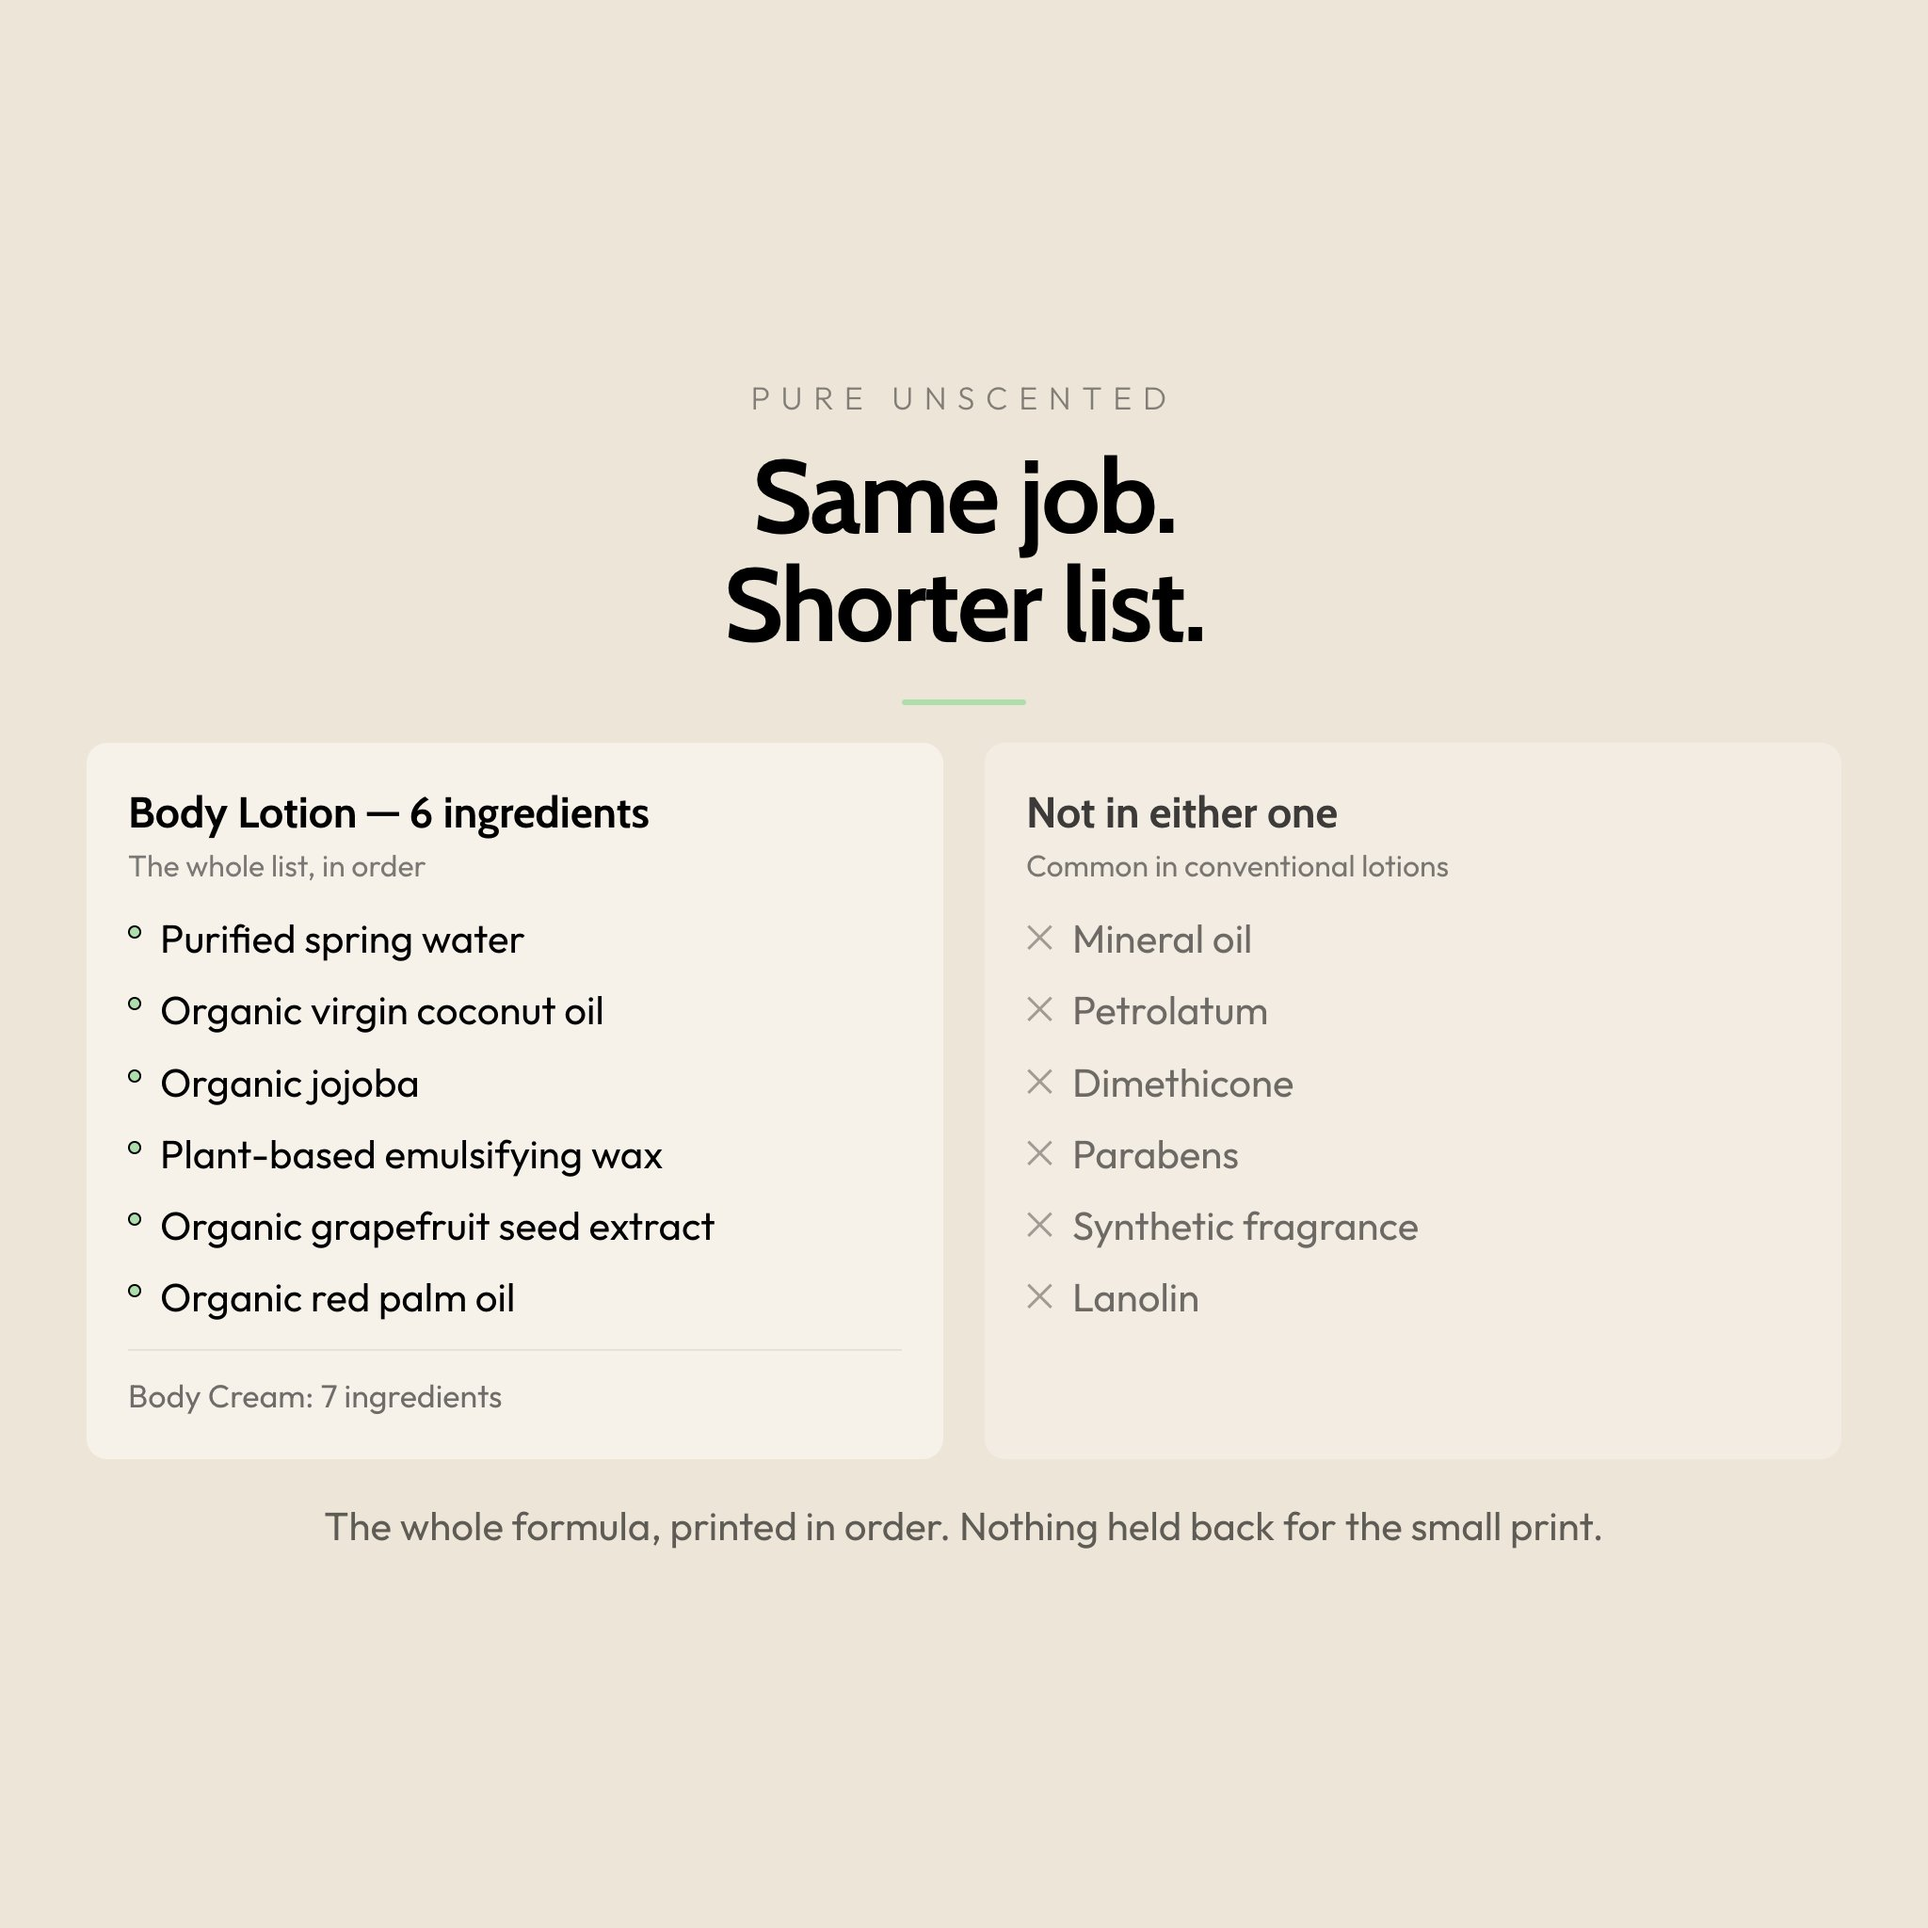
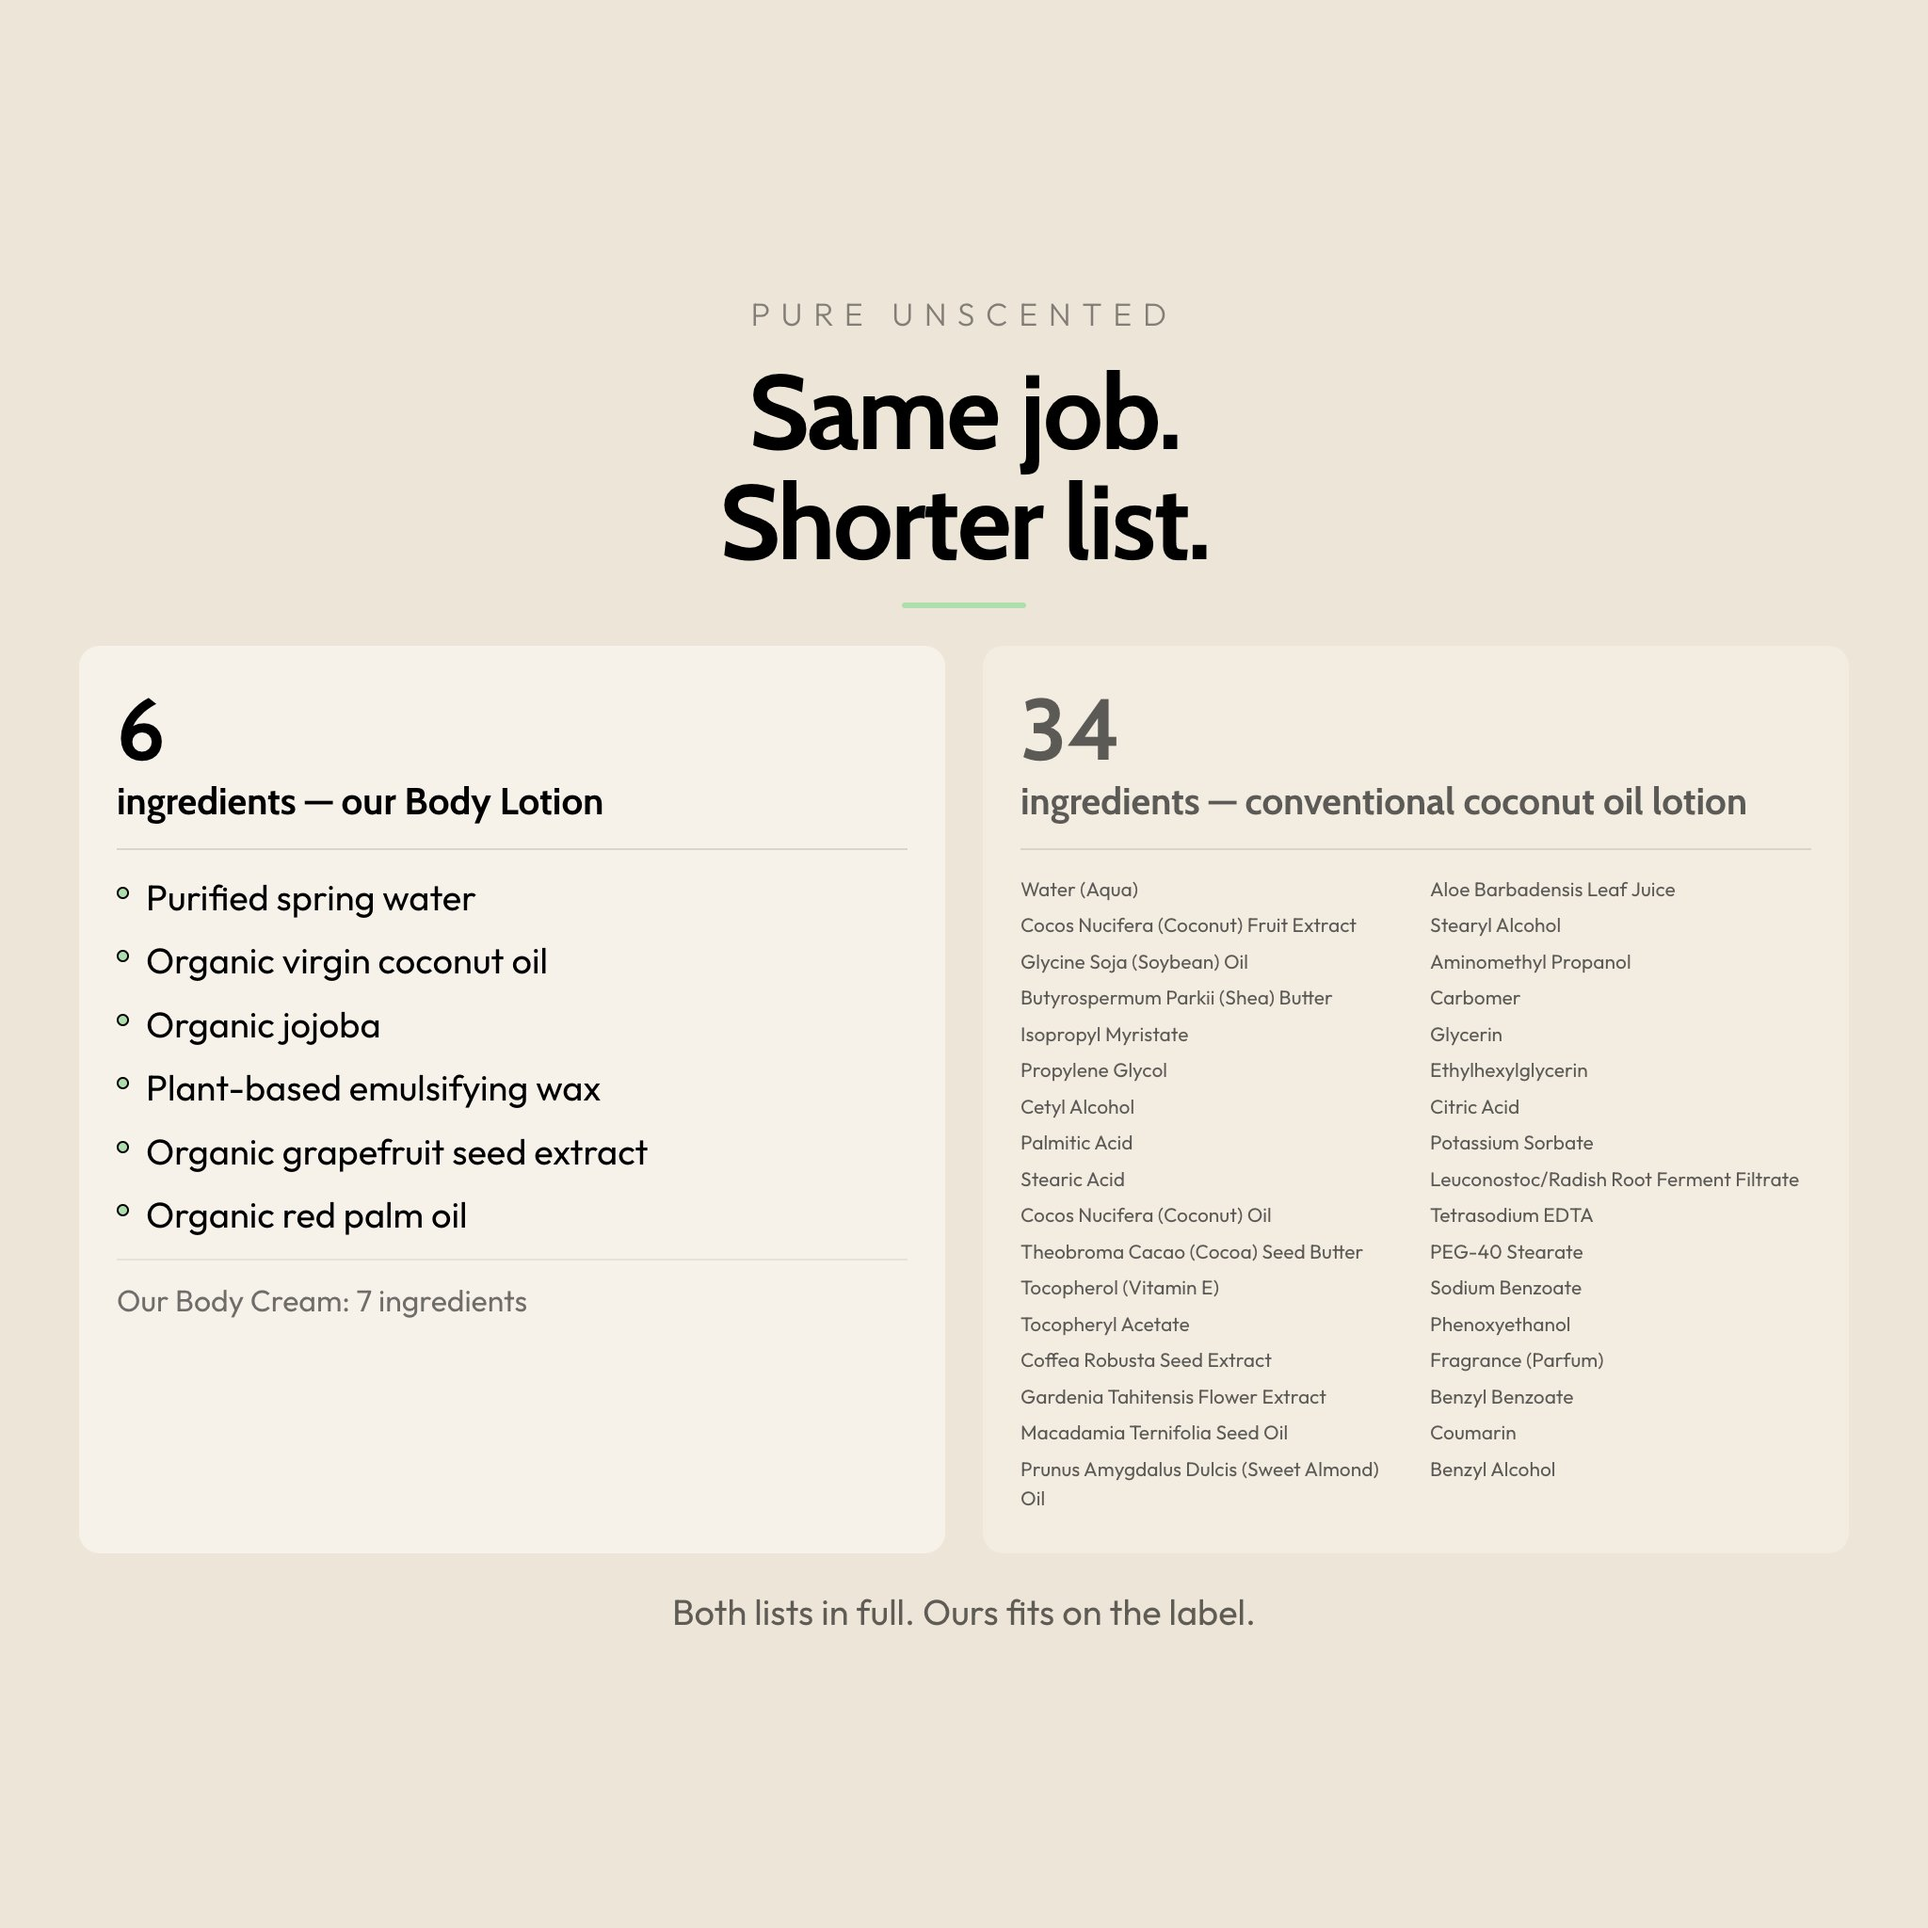
fix(bundles): frame 6 — list against list, 7 against 34
Sean caught that the first build argued against its own headline. It set our full
list beside a column of six things we exclude, so the shorter list on a frame
headlined "Shorter list" was ours — six items against seven. The image contradicted
the copy and I shipped it for review without noticing.

He also supplied a real published panel from a nationally sold coconut oil lotion,
with the instruction that we do not name them: we are contrasting against the
market, not attacking a competitor.

So it is now our real list against their real list, 7 against 34, both printed in
full and neither named. Their column needs smaller type in two sub-columns simply
to fit, which makes the point typographically rather than asserting it. The claim
is not that theirs is bad — it is that ours is short enough to print, and here it
is.

Our list is imported from config/ingredients.json and never retyped. Theirs lives
in data/brand/reference/comparison-lotion.json, which records the real product for
traceability while only the ingredients array is ever rendered — the brand name
cannot reach the frame. The label stays non-superlative on purpose: "leading" or
"best-selling" is a ranking claim we cannot support, "a conventional coconut oil
lotion" needs no support, and verify() rejects the former.

The headline is now self-verifying: if our list is ever not the shorter one, the
frame stops building rather than shipping an argument that reads backwards. That is
[…]

diff --git a/docs/bundle-media-plan.md b/docs/bundle-media-plan.md
@@ -327,31 +327,37 @@ Provenance checked rather than assumed: 4.84/135 is reproducible from the Judge.
 **Frame 6 — built 2026-08-01, not yet uploaded.** `ingredients-frame.mjs` plus a thin
 module per scent.
 
-**Unblocked by a direction, not by research.** The plan required "the comparison from
-an actual published INCI panel", which is why this frame sat blocked. Sean's direction
-2026-08-01: **we are not posting us against a specific product, we are posting us
-against the lotion market in general.** A category comparison needs no competitor
-panel — and it is the safer frame, because it asserts nothing about what any
-particular product contains.
+**Unblocked by a direction, then corrected twice.** The plan required "the comparison
+from an actual published INCI panel", which is what had it stuck. Sean, 2026-08-01:
+*we are not posting us against a specific product, we are posting us against the lotion
+market in general* — and separately supplied a real published panel to contrast against,
+with the instruction that **we do not name them**.
 
-What that leaves is honest on both sides:
+The first build got it backwards and is worth recording. It set our full list against a
+column of six things we exclude, so the "shorter list" on the frame was **ours** — six
+items against seven. The headline argued against the image. Sean caught it.
 
-- **Our column is the complete real list**, imported from `config/ingredients.json`
-  rather than retyped, so the count cannot drift from the source of truth. Six in the
-  Pure Unscented lotion, seven in Coconut Breeze — hence one frame per scent.
-- **The other column is a claim about our own formula.** Every item is an absence the
-  live lander already states. Nothing is asserted about anyone else's product, no brand
-  is named and no packaging is depicted.
+What ships instead: our real list against their real list, **7 against 34**, both
+printed in full, neither named as a brand. Their column needs smaller type in two
+sub-columns to fit, which makes the point typographically instead of asserting it. The
+claim is not "theirs is bad" — it is "ours is short enough to print, and here it is".
 
-**Both traps are walked past in the open rather than avoided.** `Organic red palm oil`
-is printed in the list, so the frame cannot be read as palm-free; the Body Cream count
-is shown rather than quietly dropped in favour of the shorter lotion, so the beeswax in
-it is not hidden. A "clean" version that omitted either would be the dishonest one.
+- Our list is imported from `config/ingredients.json`, never retyped.
+- Their list lives in `data/brand/reference/comparison-lotion.json`, which records the
+  real product for traceability. **Only the `ingredients` array is rendered**; the brand
+  name never reaches the frame.
+- The label is deliberately non-superlative. "Leading" or "best-selling" would be a
+  ranking claim we cannot support; "a conventional coconut oil lotion" needs no support.
 
-`verify()` blocks a duplicate absence, and blocks claiming anything absent that appears
-in our own list — exercised: adding "Coconut oil" to the absence column fails the build.
+**Both traps walked past in the open.** `organic red palm oil` is printed in our list, so
+the frame cannot be read as palm-free; the Body Cream count is shown rather than dropped
+in favour of the shorter lotion, so its beeswax is not hidden.
 
-**Frame 6** original honesty note: both ingredient lists must be real — ours from `config/ingredients.json`, the comparison from an actual published INCI panel — and the comparison bottle must be unbranded and unnamed. Verify both counts before this ships; an invented number here would be the single most damaging frame in either stack.
+`verify()` makes the headline self-verifying — **if our list is ever not the shorter one
+the frame stops building**, which is exactly the failure the first version shipped past.
+It also blocks a ranking claim in the label. Both exercised.
+
+**Frame 6** original honesty note:**Frame 6** original honesty note: both ingredient lists must be real — ours from `config/ingredients.json`, the comparison from an actual published INCI panel — and the comparison bottle must be unbranded and unnamed. Verify both counts before this ships; an invented number here would be the single most damaging frame in either stack.
 
 Our side of the count, read from `config/ingredients.json` on 2026-08-01, so the frame does not have to re-derive it:
 
